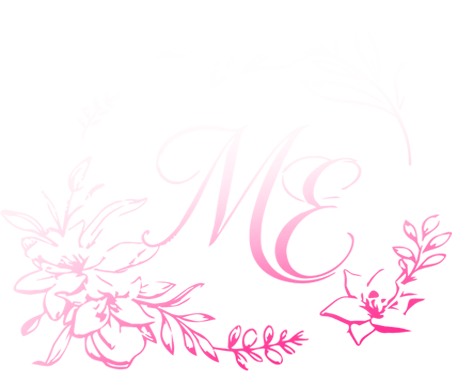
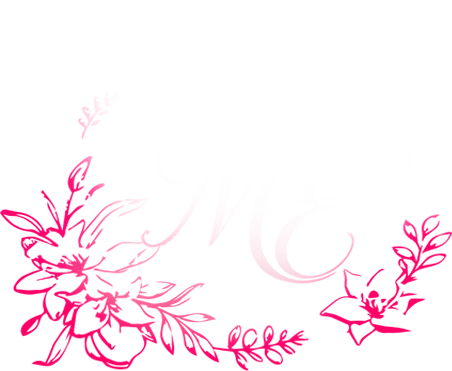
up 2

diff --git a/CONVITE ME/convite_maria_eduarda_v4_video_abertura/script.js b/CONVITE ME/convite_maria_eduarda_v4_video_abertura/script.js
@@ -12,7 +12,7 @@ const modals = {
   manual: {
     eyebrow: "Manual",
     title: "Manual do Convidado",
-    image: "CONVITE ME/convite_maria_eduarda_v4_video_abertura/icons/manual.png",
+    image: "https://www.arthurcaliman.com.br/wp-content/uploads/2024/10/adolescentes-festa-de-15-anos.jpg.webp",
     body: `
       <p>Para manter a festa elegante e dentro da proposta visual da noite, siga estas orientações:</p>
       <ul>
@@ -48,7 +48,7 @@ const modals = {
       <p> Buffet Uriel - Estr. dos Pinheiros, 70 - Parque Viana - Barueri<br></p>
 
       <div class="modal-actions">
-        <a class="button" href="https://maps.google.com" target="_blank" rel="noopener">
+        <a class="button" href="https://www.espacopuzzle.com.br/blog/img/blog24.webp" target="_blank" rel="noopener">
           Abrir no Google Maps
         </a>
       </div>
@@ -58,7 +58,7 @@ const modals = {
   rsvp: {
     eyebrow: "Confirmação",
     title: "Confirmar Presença",
-    image: "https://images.unsplash.com/photo-1529634806980-85c3dd6d34ac?auto=format&fit=crop&w=900&q=80",
+    image: "h",
     body: `
       <p>Toque no botão abaixo para confirmar sua presença no XV da Maria Eduarda.</p>
 

diff --git a/CONVITE ME/convite_maria_eduarda_v4_video_abertura/index.html b/CONVITE ME/convite_maria_eduarda_v4_video_abertura/index.html
@@ -70,8 +70,8 @@
 
       <article class="invite-card">
         <img class="invite-image" src="imgs/icon.png" 
-        width="200"
-        height="210"
+        width="210"
+        height="180"
         alt="Foto da aniversariante Maria Eduarda" />
 
         

diff --git a/CONVITE ME/convite_maria_eduarda_v4_video_abertura/style.css b/CONVITE ME/convite_maria_eduarda_v4_video_abertura/style.css
@@ -1152,7 +1152,7 @@ button {
   inset: -40%;
 
   background:
-    radial-gradient(circle, rgba(255,255,255,0.9) 0 1px, transparent 2px),
+    radial-gradient(circle, rgba(255, 191, 226, 0.9) 0 1px, transparent 2px),
     radial-gradient(circle, rgba(255,220,240,0.8) 0 2px, transparent 3px),
     radial-gradient(circle, rgba(255,215,160,0.7) 0 2px, transparent 3px);
 
@@ -1256,7 +1256,7 @@ button {
   color: #fff;
 
   text-shadow:
-    0 0 22px rgba(255,220,180,0.35),
+    0 0 22px rgba(255, 180, 233, 0.35),
     0 6px 22px rgba(0,0,0,0.35);
 }
 